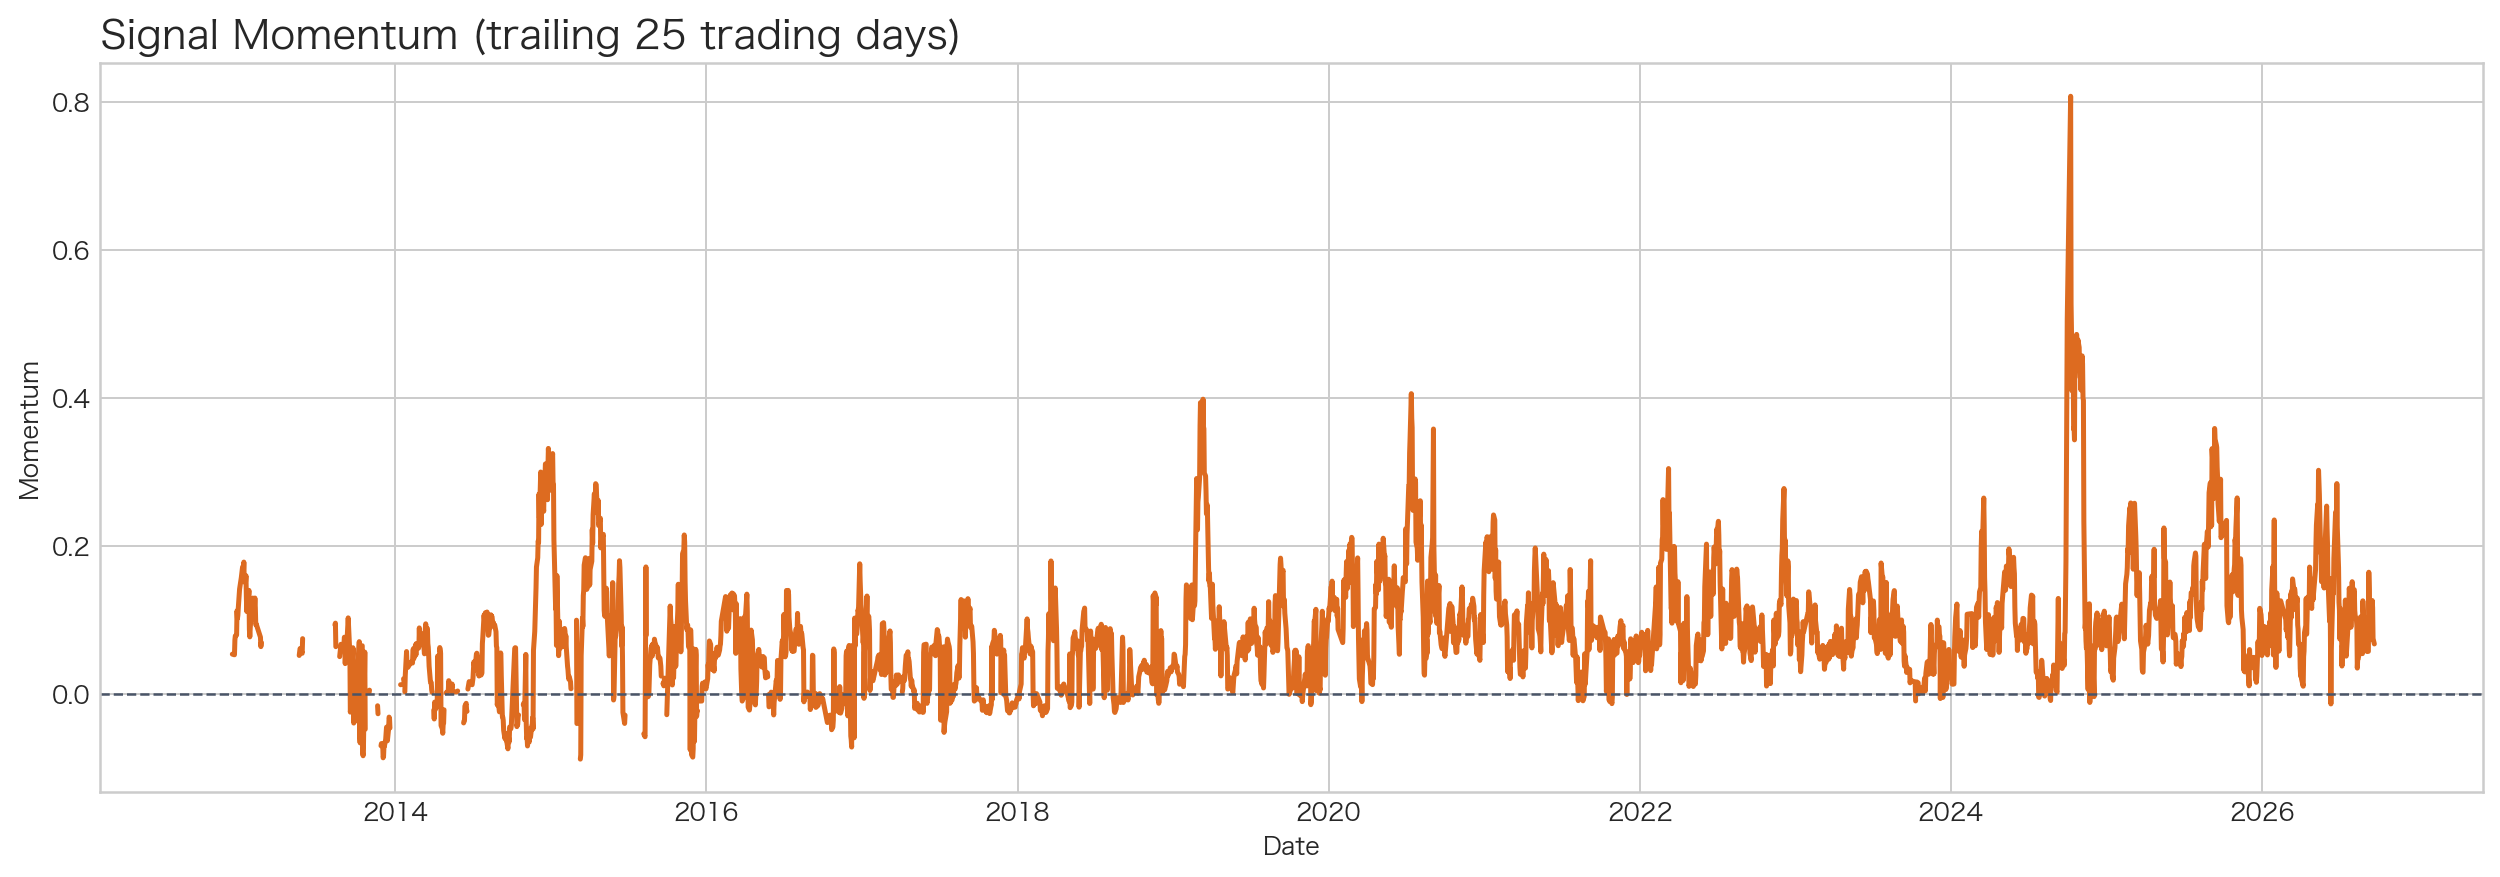
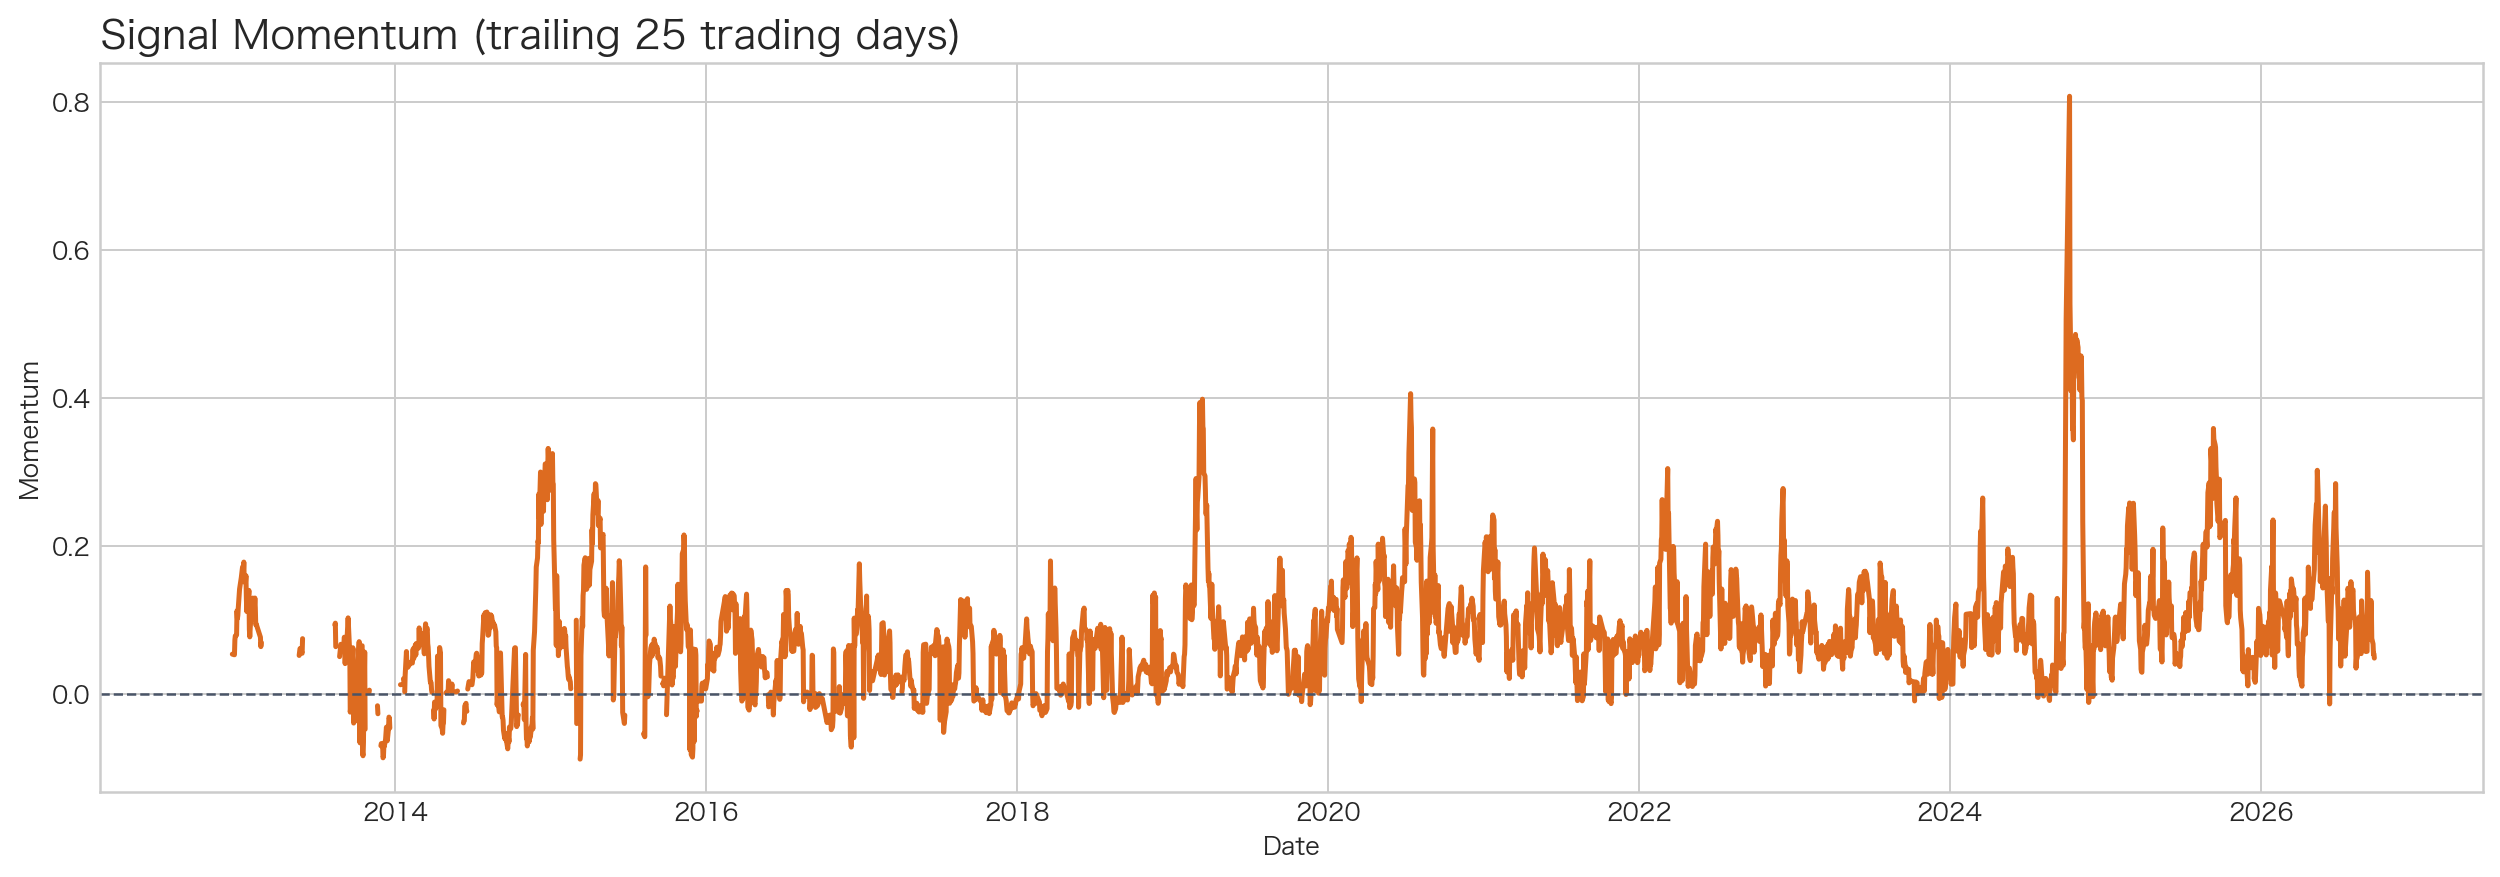
momentum_backtest: 输出目录与 cwd 解耦，并刷新监控输出
- core/config.py: OUTPUT_DIR 由相对路径 Path('momentum_backtest/output') 改为基于 __file__ 的绝对路径。旧写法只在仓库根目录运行时正确，从 momentum_backtest/ 内运行会在其下再套一层 momentum_backtest/momentum_backtest/output 脏目录（2026-09-24 dry-run 时踩到，已移出到 /tmp/mb_dup_backup）\n- .gitignore: 忽略 matplotlib 字体缓存 .mpl/\n- output: 修复后重新生成的回测/监控输出（净值、回撤、监控日志等）

diff --git a/momentum_backtest/core/config.py b/momentum_backtest/core/config.py
@@ -7,7 +7,11 @@ from pathlib import Path
 import pandas as pd
 
 
-OUTPUT_DIR = Path("momentum_backtest/output")
+# 输出目录与**调用时的 cwd 解耦**：始终指向本项目（momentum_backtest）下的 output。
+# 旧实现是相对路径 Path("momentum_backtest/output")，只有从仓库根目录运行时才正确；
+# 从 momentum_backtest/ 内运行会在其下再套一层 momentum_backtest/output 脏目录（2026-09-24 踩到）。
+_PROJECT_DIR = Path(__file__).resolve().parents[1]
+OUTPUT_DIR = _PROJECT_DIR / "output"
 CORE_OUTPUT_DIR = OUTPUT_DIR / "core"
 ANALYSIS_OUTPUT_DIR = OUTPUT_DIR / "analysis"
 MONITOR_OUTPUT_DIR = OUTPUT_DIR / "monitor"
